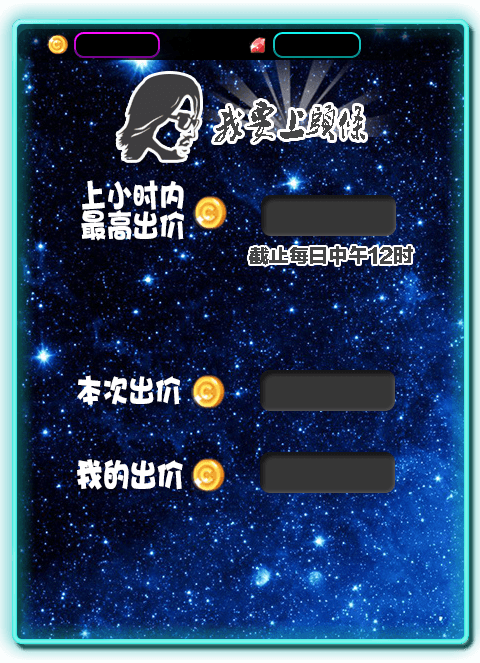
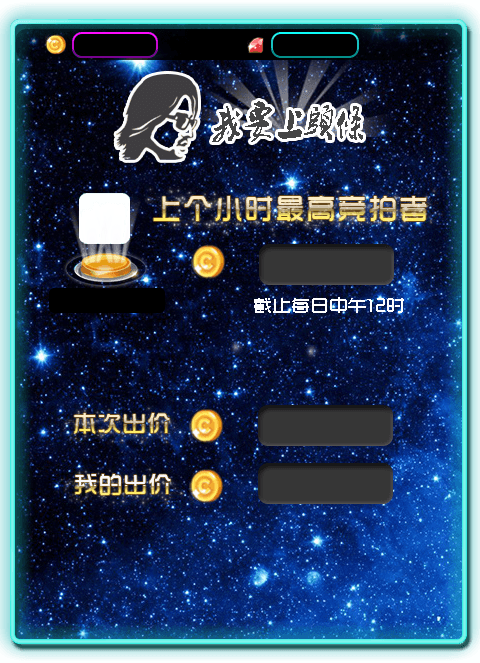
1.6.1

diff --git a/public/headline/src/views/ToolItem.ts b/public/headline/src/views/ToolItem.ts
@@ -8,6 +8,8 @@ class ToolItem extends eui.Component {
 	private img100: eui.Image;
 	private img900: eui.Image;
 	
+	private imgReset: eui.Image;
+	
 	private lbl100: eui.Label;
 	private lbl900: eui.Label;
 	private lbl1: eui.Label;
@@ -26,7 +28,19 @@ class ToolItem extends eui.Component {
 		
 		this.img900.addEventListener(egret.TouchEvent.TOUCH_TAP,() => {
 			this.buy(900, 10);
-		}, this);		
+		}, this);
+		
+		this.imgReset.addEventListener(egret.TouchEvent.TOUCH_TAP,() => {
+			this.reset();
+		}, this);
+		
+		application.dao.addEventListener("Project", function(ev:egret.Event){
+            var myProject = ev.data;
+            if(myProject.id == this._myProject.id) {
+                this.myProject = myProject;                
+                this.refresh();
+    		}
+    	}, this);	
 
         this.imgIcon.source  = iconName;
         this.imgTitle.source = titleName;
@@ -40,6 +54,23 @@ class ToolItem extends eui.Component {
 		this.lbl900.text = application.format(this.ratio(this._myProject.tool_ratio, 10));
 	}
 	
+	private reset(): void {
+		if (this._myProject.tool_ratio > 1) {
+    		var boughts = 0;
+    		var ratio = 1;
+    		while (ratio < this._myProject.tool_ratio) {
+    		    boughts ++;
+    		    
+    		    ratio = this.ratio(1, boughts);
+    		}
+    		
+            var diamond = 630 * Math.floor(boughts / 10) + 70 * (boughts % 10);
+			application.showUI(new ResetUI(this._myProject, this._project, diamond));
+		} else {
+			Toast.launch('还没有购买过金手指，不能重置');
+		}
+	}
+	
 	private buy(price: number, step: number): void {
         if (application.customer.diamond >= price) {
 			let oldOutput = this.output();
@@ -47,9 +78,9 @@ class ToolItem extends eui.Component {
             application.buyOutput(0,price,this.output() - oldOutput);
             application.dao.save("Project",this._myProject);
 			
-			esa.EgretSA.onDiamondUse("购买了运营加倍", 1, price);
+			esa.EgretSA.onDiamondUse("购买了金手指", 1, price);
             
-            Toast.launch("购买成功");
+            Toast.launch("成功购买了金手指");
             this.refresh();
 		} else {
 			application.showUI(new ChargeTipUI());

diff --git a/public/headline/src/Application.ts b/public/headline/src/Application.ts
@@ -482,8 +482,7 @@ module application {
     
     export function showHelp(content:string): egret.DisplayObjectContainer {
         if (content.length == 0) {
-            content = "QQ客服 3369182016\n"
-            content += "玩法\n"
+            content = "玩法\n"
             content += "1. 点击中间舞者可产生金币，金币用来升级运营项目，而运营项目随等级提高从而产生更多的金币。\n"
             content += "2. 金币可以用来参加头条拍卖，每天最高出价者会成为头条，获得头条殊荣，勋章和钻石奖励。\n"
             content += "3. 道具可以帮助玩家快速获得大量金币和永久提高运营项目的每秒产量。\n"
@@ -571,26 +570,26 @@ module application {
     export function format(d:number): string {
 		try {
 			if (d <= 99999) {
-				return d.toString();
+				return new Number(d).toFixed();
 			}
         
 			let unit:string  = "";		
 			for (var i = 0; i < application.units.length; i++) {
 				if (d < 10) {
-					return d.toFixed(2) + unit;
+                    return new Number(d).toFixed(2) + unit;
 				} else if (d < 100) {
-					return d.toFixed(1) + unit;
+                    return new Number(d).toFixed(1) + unit;
 				} else if (d < 1000) {
-						return d.toFixed() + unit;
+                    return new Number(d).toFixed() + unit;
 				} else {
 					unit = application.units[i];
 					d = d / 1000;
 				}
 			}
 			
-			return d.toFixed() + unit;
+            return new Number(d).toFixed() + unit;
 		} catch (error) {
-			console.error("format " + d.toString() + " error " + error.message);
+            console.error("format " + d + " error " + error.message);
 			
 			return "0";
 		}

diff --git a/public/headline/src/views/ResetUI.ts b/public/headline/src/views/ResetUI.ts
@@ -1,0 +1,51 @@
+class ResetUI extends eui.Component{
+    private imgOk: eui.Image;
+    private imgCancel: eui.Image;
+    
+    private lblDiamond:eui.Label;
+    
+    private diamond: number;
+    private myProject: any;
+    private project: any;
+    
+    constructor(myProject: any,project: any,diamond: number) {
+        super();
+        
+        this.diamond = diamond;
+        this.myProject = myProject;
+        this.project = project;
+       
+        this.addEventListener( eui.UIEvent.COMPLETE, this.uiCompHandler, this );
+        
+        this.skinName = "resource/custom_skins/resetUISkin.exml";
+    }
+
+    private uiCompHandler():void {
+        this.imgCancel.addEventListener( egret.TouchEvent.TOUCH_TAP, ()=>{
+            application.hideUI(this);
+        }, this );
+        
+        this.imgOk.addEventListener( egret.TouchEvent.TOUCH_TAP, ()=>{
+            let oldOutput = this.output();
+            
+            this.myProject.tool_ratio = 1;
+            application.dao.save("Project",this.myProject);
+            
+            application.customer.diamond += this.diamond;
+            application.customer.output  += this.output() - oldOutput;
+            application.saveCustomerNow();
+			
+            esa.EgretSA.onDiamondReward(this.diamond, "重置了金手指");
+            
+            Toast.launch("成功重置了金手指");
+            
+            application.hideUI(this);
+        }, this );
+        
+        this.lblDiamond.text = application.format(this.diamond);
+    }
+    
+    private output(): number {
+        return this.project.output(this.myProject.level, this.myProject.achieve, this.myProject.tool_ratio);
+    }
+}

diff --git a/public/headline/src/views/AuctionUI.ts b/public/headline/src/views/AuctionUI.ts
@@ -10,6 +10,9 @@ class AuctionUI extends eui.Component{
 	private lblMaxBid:eui.Label;
 	private lblCurrentBid:eui.Label;
 	
+	private lblMaxBidName:eui.Label;
+	private imgMaxBidAvatar:eui.Image;
+	
 	private imgBid:eui.Image;
 	
 	private grpTrack: eui.Group;
@@ -115,8 +118,12 @@ class AuctionUI extends eui.Component{
         application.dao.fetch("MaxBid",{ day :today }, {limit : 1}, function(succeed, bids){
             if (succeed && bids.length > 0) {
 				self.lblMaxBid.text = application.format(bids[0].gold);			
+				self.lblMaxBidName.text = bids[0].name;
+				self.imgMaxBidAvatar.source = bids[0].avatar;
             } else {
 				self.lblMaxBid.text = "0";
+				self.lblMaxBidName.text = "";
+				self.imgMaxBidAvatar.source = "";
 			}
         })
 	}

diff --git a/public/headline/index.html b/public/headline/index.html
@@ -75,6 +75,7 @@
 	<script egret="game" src="bin-debug/views/RankItem.js"></script>
 	<script egret="game" src="bin-debug/views/RankUI.js"></script>
 	<script egret="game" src="bin-debug/views/ReportUI.js"></script>
+	<script egret="game" src="bin-debug/views/ResetUI.js"></script>
 	<script egret="game" src="bin-debug/views/Toast.js"></script>
 	<script egret="game" src="bin-debug/views/ToolItem.js"></script>
 	<script egret="game" src="bin-debug/views/ToolUI.js"></script>
